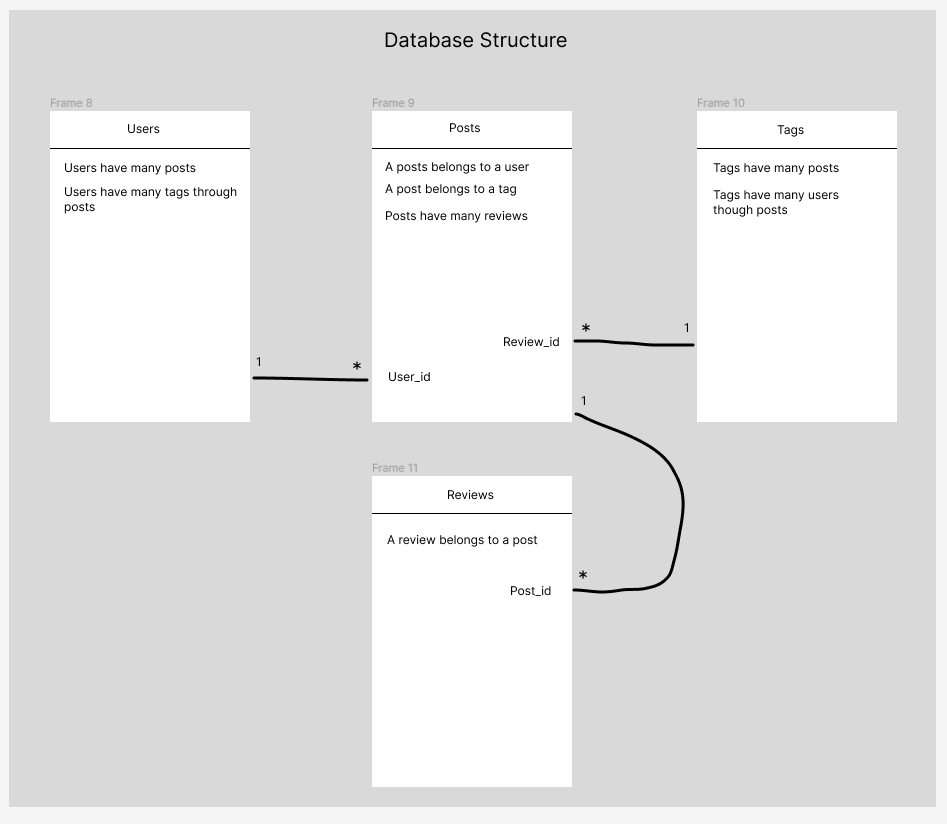
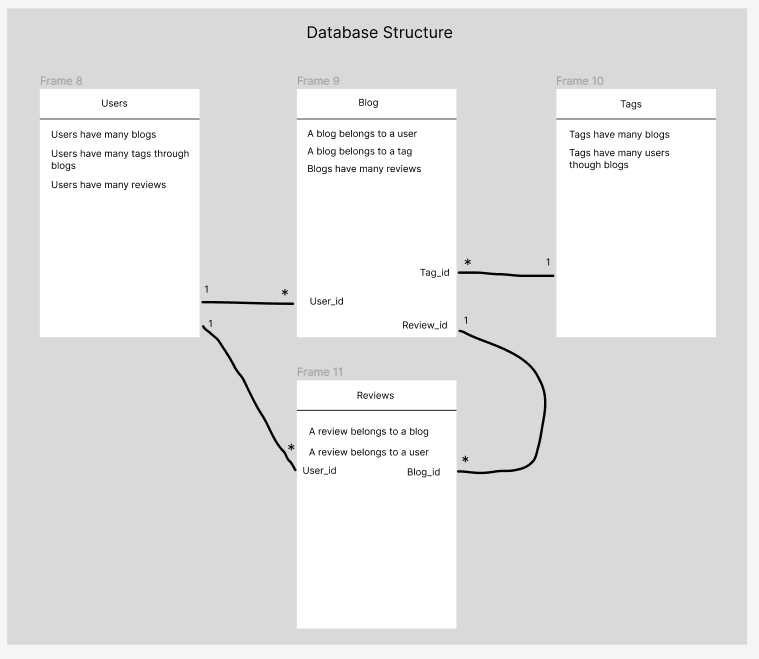
updated readme

diff --git a/README.md b/README.md
@@ -1,83 +1,180 @@
 # Blog App
 
-Welcome to Blog App! Blog App is a full stack web application where users can sign up and write blogs. This is a full CRUD app using Rails version 
+Welcome to Blog App! Blog App is a full stack web application where users can sign up and write blogs. The backend is a full CRUD API using Rails version 7.0.4. The front end is written in JavaScript/React. This is my capstone project for Flatiron's Software Engineering course all written within three weeks.
+
+To run this on your locally on your machine run the following commands in the `blog-app` directory:
+
+* `bundle install`
+* `npm install --prefix client`
+* `rails db:create`
+* `rails db:migrate`
+* `rails db:seed`
 
 ## User Stories
 
-* As a user, I want to be able to create an account, so I can log in and use the app.
-* As a user, I want to be able to see my user info, so etc etc etc
-* As an editor, I want to be able to do an admin thing, so I can etc etc
-
-(Have one story for each feature you plan to include—even small features are great to list here, so feel free to get granular with it. You'll probably be making a new branch for each of these, right?)
+* Be signed up and can log in/log out.
+* Create, edit, and delete their own blog posts.
+* Add tags to a post.
+* Search for blog posts and tags.
+* Review other user’s blog posts.
 
 ## Models and Relationships
 
-This is a good place for a sweet diagram:
-
-![My Data Relationships](https://support.bizzdesign.com/download/attachments/39814141/worddav928fdea0a6b423e337e8814628445af4.png)
+![My Data Relationships](wireframes/database-structure.png)
 
 ### User
 
-A `User` has many `Pickles`, and so on and so forth
+A `User` has many `Blogs`, and a `User` has many tags through `Blogs`. A `User` has many `Reviews`.
 
 * id
-* username
-* password_digest
-* firstname
-* lastname
-* birthday
-* favorite color
+* first name 
+* last name
+* email
+* password
+* avatar 
 
-### Pickle
+### Post
 
-A `Pickle` belongs to a `User`, and so on 
+A `Blog` belongs to a `User`, a `Blog` belongs to a `Tag`, and a blog has many `Reviews`.
 
 * id
-* variety
-* weight
-* price
-* description
+* title
+* content
+* slug
+* user_id
+* review_id
+* tag_id
+
+### Review
+
+A `Review` belongs to a `Blog` and belongs to a `User`.
+
+* id
+* comment
+* rating
+* blog_id
+* user_id
+
+### Tag
+
+A `Tag` has many `Blogs` and a `Tag` has many users through `Blogs`.
+
+* id
+* category
 
 ## API
 
-Here's where you want to describe each API endpoint you're building/using. You can put this in your front end repo, your back end repo, or both.
+Find below a list of the most useful endpoints that can be used with the API.
 
-### GET /api/users
+### GET /api/blogs
 
-Returns a list of all users. Response JSON looks like this:
+Returns a list of all created blogs in the follwoing format
 
 ```json
-{ 
+{
   id: 111,
-  username: "johndoe",
-  firstname: "John",
-  lastname: "Doe",
-  etc: "etc"
+  content: "Blog post here",
+  user_id: 4
+  review_id: 7,
+  tag_id: 1
+}
+```
+
+### GET /api/blogs/:id
+
+Find a blog by id or by a parameterized slug. Titles are saved in the database as a slug and can be searched by entering the title in lowercase and words seperated by a dash ex. `http://localhost:3000/a-passage-to-india`
+
+### GET /api/reviews
+
+Returns a list off all reviews in the following format.
+
+```json
+{
+  id: 111,
+  comment: "Love the post! Looking forward to the next one!",
+  rating: 5,
+  blog_id: 7,
+  user_id: 1
+}
+```
+
+### POST /api/reviews
+
+Creates a new review for a blog. Send this data
+
+```json
+{
+    comment
+    rating (integer)
+    blog_id (integer)
+    user_id (integer)
+}
+```
+
+and sends back the follwoing data
+
+```json
+{
+  id: 111,
+  comment: "Love the post! Looking forward to the next one!",
+  rating: 5,
+  blog_id: 7,
+  user_id: 1
 }
 ```
 
 ### POST /api/users
 
-Creates a new user. Say more about that here. Send this data:
+Creates a new user. Emails and passwords must be unique. Passwords are salted and hashed. To create a new user submit the following attributes:
 
 ```json
-{ this is what it takes as data }
+{
+    first_name
+    last_name
+    email
+    password
+    avatar
+}
 ```
 
-And this is what it returns:
+This is what it returns:
 
 ```json
-{ this is what you get back }
+{
+  id: 111,
+  first_name: "Glen",
+  last_name: "Jacobs",
+  email: "caleb@wolf.co",
+  avatar: "https://robohash.org/quaeprovidentmagni.png?size=300x300&set=set1"
+}
+```
+
+### GET /api/tags
+
+Returns a list of all tags a user can assign to a blog.
+
+```json
+{
+    id: 1,
+    category: "Fashion"
+}
 ```
 
 ## Wireframe / Mockup
 
-Put your sweet wireframes and mockup images here. Probably only goes in the front end repo.
+### Homepage
+![Homepage](wireframes/homepage.png)
 
-![Wireframe](https://i2.wp.com/d1dlalugb0z2hd.cloudfront.net/handbooks/agile-handbook/wireframe/01-youtube-wireframe-example.png?resize=800%2C528&ssl=1)
+### Login / Signup
+![login/signup](wireframes/login-signup.png)
 
-![Another Wireframe](https://dpbnri2zg3lc2.cloudfront.net/en/wp-content/uploads/old-blog-uploads/versions/samuel-student-wireframe---x----972-715x---.png)
+### Post Blog
+![PostBlog](wireframes/post-blog-page.png)
+
+### Profile Page
+![ProfilePage](wireframes/profile-page.png)
+
+### Any Users Blog Post
+![AnyUserBlogPost](wireframes/any-user-blog-page.png)
 
 ## Contact info and other stuff
-
-Put anything else you want here!
